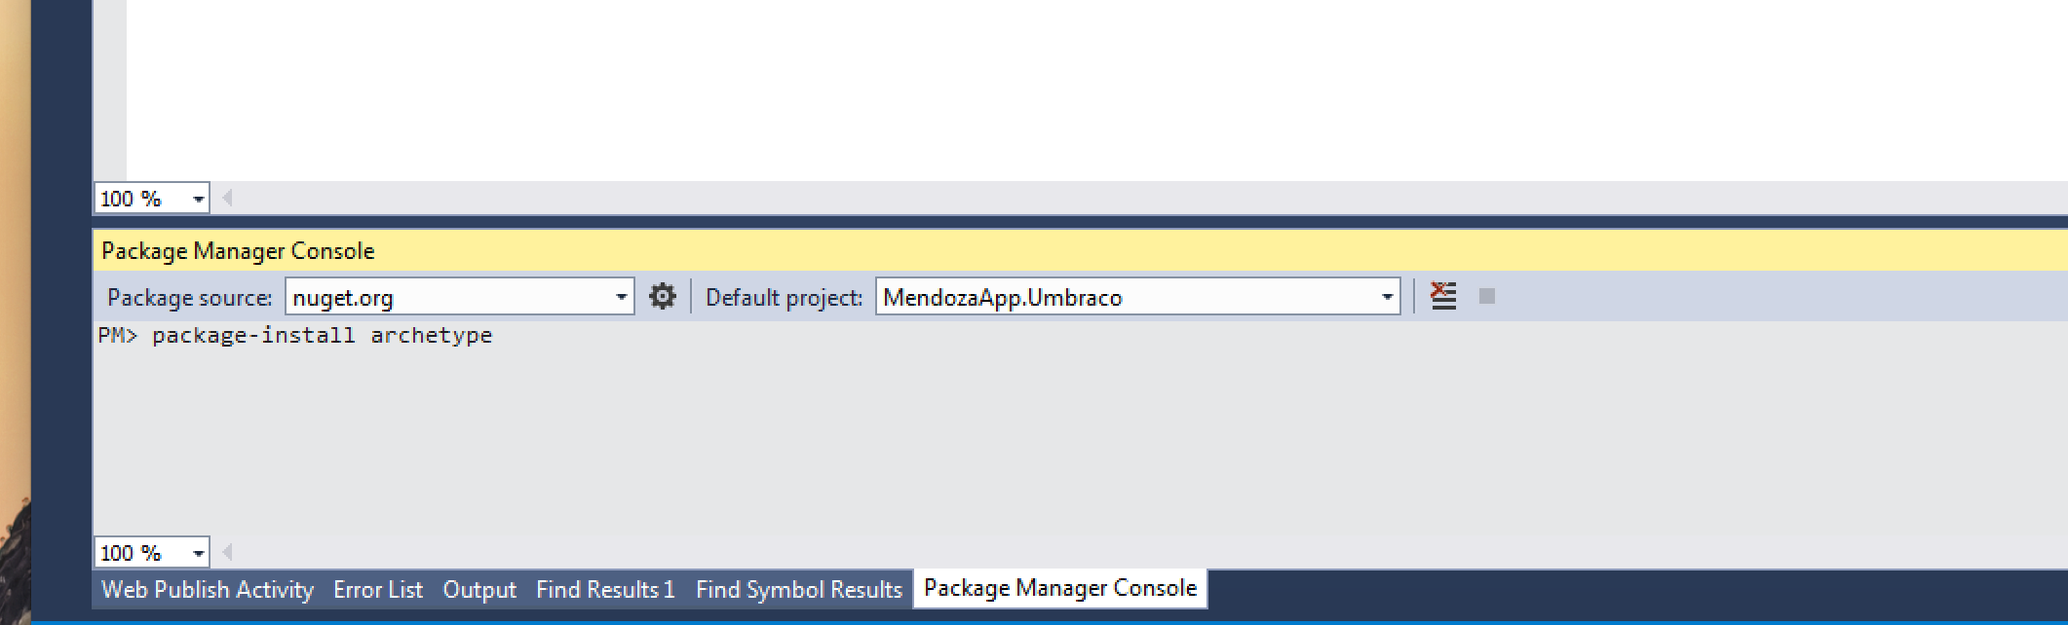
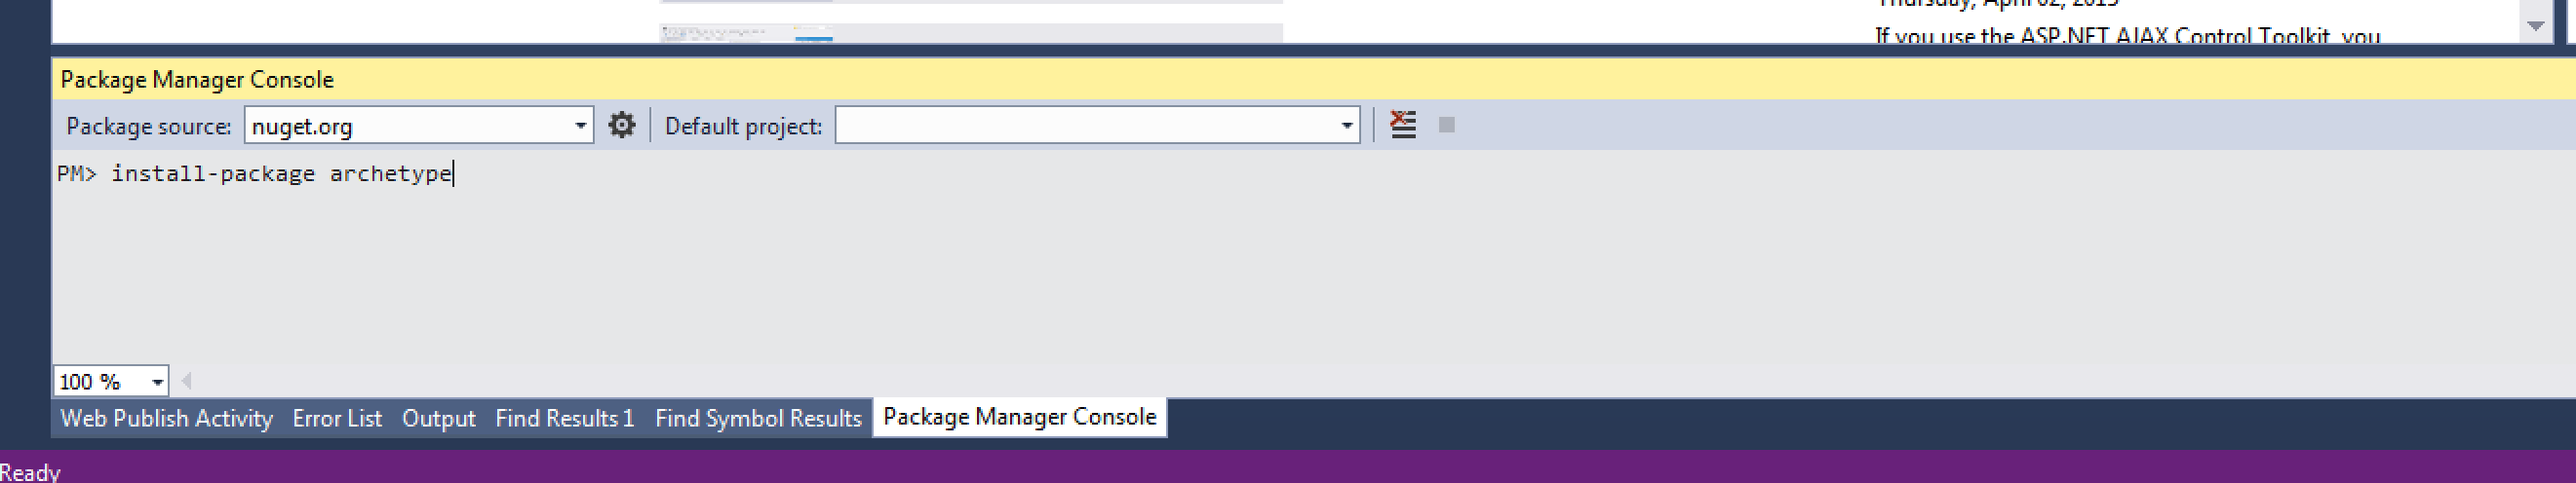
Fix NuGet doc

diff --git a/05 - Deserialize Archetype.md b/05 - Deserialize Archetype.md
@@ -17,7 +17,7 @@ namespace MyNamespace
 
             var archetypeValueAsString = contentService.GetById(1234).GetValue<string>("myArchetypeProperty");
 
-            var archetype = JsonConvert.DeserializeObject<ArchetypeModel>(archetypeValueAsString);
+            var archetype = JsonConvert.DeserializeObject<ArchetypeModel> (archetypeValueAsString);
 
             foreach (var fieldset in archetype)
             {

diff --git a/01 - Installation.md b/01 - Installation.md
@@ -2,7 +2,7 @@
 
 Installation is a breeze, the preferred way to install Archetype is via Nuget (https://www.nuget.org/packages/Archetype/).
 
-Type: `package-install archetype` in your Visual Studio NuGet Package Manager.
+Type: `install-package archetype` in your Visual Studio NuGet Package Manager.
 
 ![nuget](assets/nuget.png)
 
